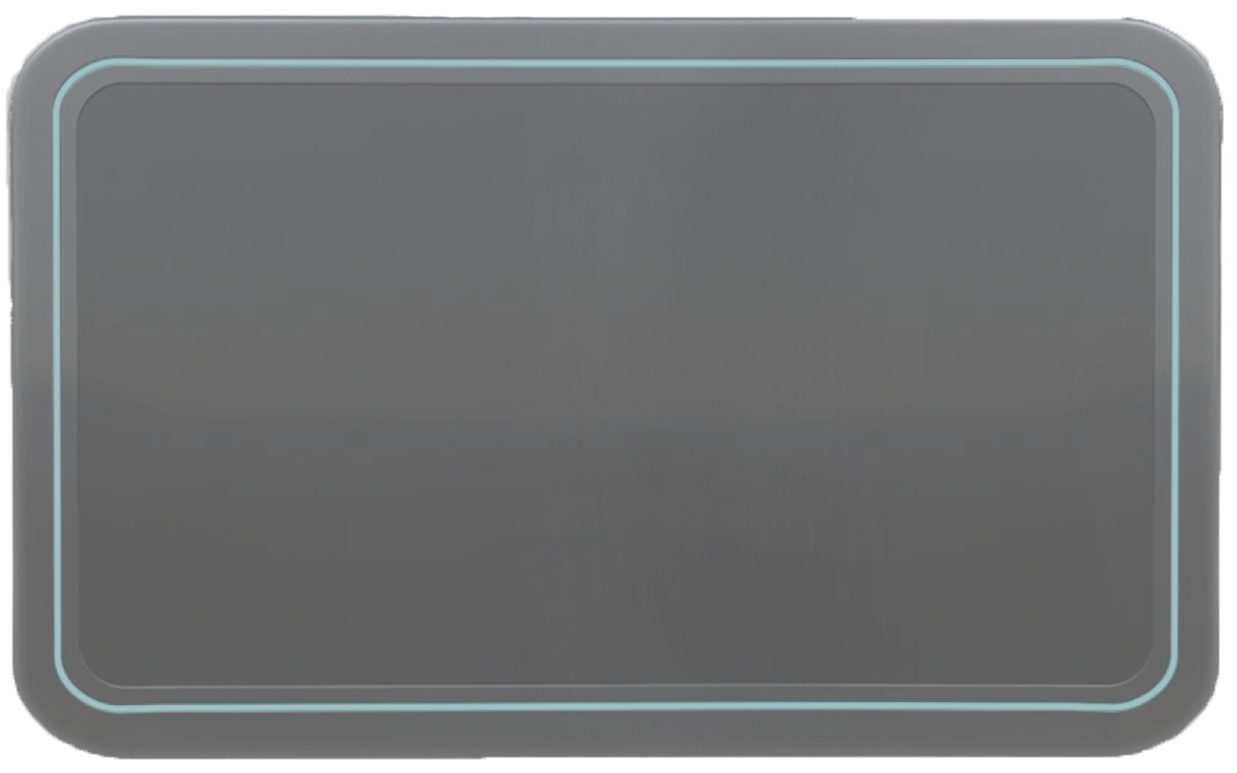
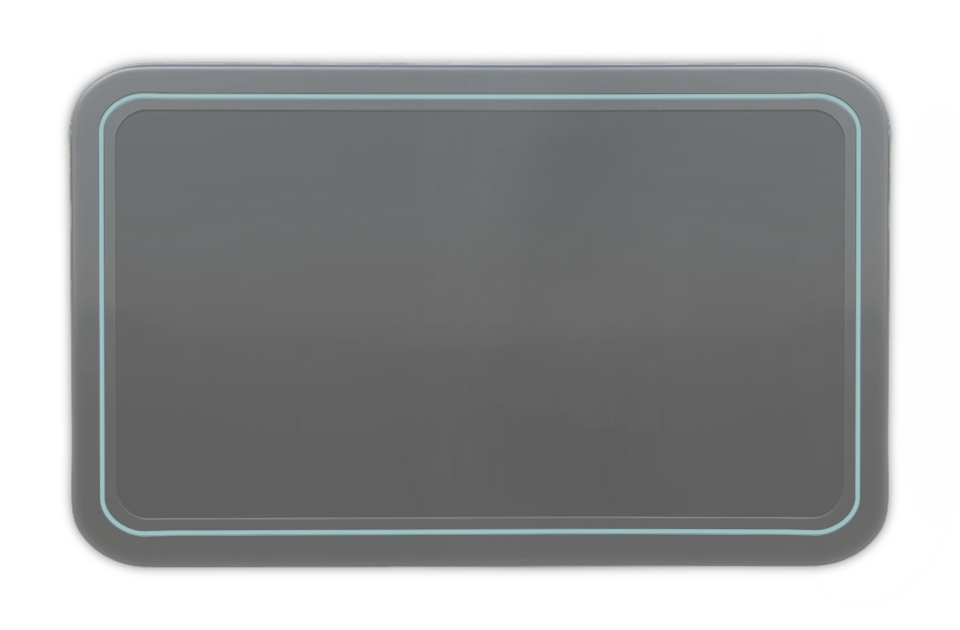
fixer bug

Changed region(s): [[0.0, 0.0, 1.0, 0.9952]]

diff --git a/style.css b/style.css
@@ -76,9 +76,9 @@ color:#B1E7F0;
     padding-left: 55px;
     padding-right: 55px;
     background-image: url('image/pda6.png');
-    background-size: 800px ;
+    background-size: 920px ;
     background-repeat: no-repeat ;
-    background-position: 0px -10px 
+    background-position: -60px -60px 
 
    
 }
@@ -132,14 +132,14 @@ a:hover {
 
 #form {
 height: 1000px;
-width: 100px;
-    padding-left: 600px;
+width: 1000px;
+    padding-left: 230px;
     padding-right: 500px;
     padding-bottom: 0px;
     background-image: url('image/PDA5.png');
     background-size: 1450px;
     background-repeat: no-repeat ;
-    background-position: 100px 0px;
+    background-position: -350px 15px;
 
 }
 
@@ -255,13 +255,13 @@ footer {
     margin-left:auto ;
     margin-right:auto;
     padding-bottom: 100px;
-    width: 700px; 
+    width: 800px; 
     height: 500px;
     padding: 100px;
     background-image: url('image/pda6.png');
-    background-size: 700px;
+    background-size: 900px;
     background-repeat: no-repeat;
-    background-position: center 00px
+    background-position: center -50px
 
 
 }
@@ -274,10 +274,10 @@ footer {
     width: 100px; 
     height: 300px;
     padding: 100px;
-    background-image: url('image/Pda\ 4\ .png');
-    background-size: 700px;
+    background-image: url('image/pda6.png');
+    background-size: 900px;
     background-repeat: no-repeat;
-    background-position: center 00px
+    background-position: center -50px
 
 
 }
@@ -290,9 +290,9 @@ footer {
     height: 300px;
     padding: 100px;
     background-image: url('image/pda6.png');
-    background-size: 800px;
+    background-size: 900px;
     background-repeat: no-repeat;
-    background-position: center 00px
+    background-position: center -50px
 
 
 }
@@ -304,13 +304,65 @@ footer {
     width: 100px; 
     height: 300px;
     padding: 100px;
-    background-image: url('image/Pda\ 4\ .png');
-    background-size: 700px;
+    background-image: url('image/pda6.png');
+    background-size: 900px;
     background-repeat: no-repeat;
-    background-position: center 00px
+    background-position: center -50px
 
 
 }
+
+#références {
+
+    margin-left:auto ;
+    margin-right: auto;
+    padding-bottom: 0px;
+    width: 1257px; 
+    height: 300px;
+    padding: 100px;
+    background-image: url('image/Pda3.png');
+    background-size: 700px;
+    background-repeat: no-repeat;
+    background-position: center -70px
+
+}
+
+#titrepropos {
+font-size: xx-large;
+font-weight: bold;
+}
+
+#peeper {
+width: 200px;
+size: 1000px 1000px;
+transform: rotate(15deg);
+padding-bottom: 500px;
+}
+
+#bladder {
+    width: 200px;
+padding-bottom: 250px;
+padding-right: 10px;
+transform: rotate(-30deg);
+}
+
+#alguetitre {
+font-size: x-large;
+font-weight: bold;
+
+}
+
+#alguesous {
+
+font-size: small;
+
+
+}
+
+
+
+
+
 
 
 

diff --git a/libre.html b/libre.html
@@ -15,11 +15,11 @@
 </td>
 
 <td>
-    <a href="main.html"> Page d'accueil</a>
+    <a href="index.html"> Page d'accueil</a>
 </td>
 
 <td>
- <a href="a propos.html">À propos</a>
+ <a href="propos.html">À propos</a>
 </td>
 
 <td>
@@ -42,7 +42,7 @@
 <table>
 <tr>
 <!-- section planet -->
-<td id="section11"><iframe width="500" height="500" src="https://www.youtube.com/embed/LvRiLyrHRsA?autoplay=1&mute=1" 
+<td id="section11"><iframe width="900" height="500" src="https://www.youtube.com/embed/LvRiLyrHRsA?autoplay=1&mute=1" 
     title="Subnautica - Safe Shallows Ambiance (underwater, fish, ocean sounds)" 
     frameborder="0" allow="accelerometer; autoplay; clipboard-write; encrypted-media; gyroscope; picture-in-picture; web-share" 
     referrerpolicy="strict-origin-when-cross-origin" 
@@ -58,7 +58,7 @@
 </td>
 
  <td id="section22">
-      <iframe width="700" height="500" src="https://www.youtube.com/embed/Fy4XV5UK56c?autoplay=1&mute=1" 
+      <iframe width="900" height="500" src="https://www.youtube.com/embed/Fy4XV5UK56c?autoplay=1&mute=1" 
       title="Subnautica - Kelp Forest Day Ambiance (sea creatures, soft music, bubbles, ocean)" 
       frameborder="0" 
       allow="accelerometer; autoplay; clipboard-write; encrypted-media; gyroscope; picture-in-picture; web-share" 
@@ -70,7 +70,7 @@
 
 <!-- section foret champignon -->
 <tr>
-    <td id="section31"><iframe width="500" height="500" src="https://www.youtube.com/embed/O61E1AZhFrw?autoplay=1&mute=1" 
+    <td id="section31"><iframe width="900" height="500" src="https://www.youtube.com/embed/O61E1AZhFrw?autoplay=1&mute=1" 
         title="Subnautica - Mushroom Forest Ambiance (sea creatures, growling, bubbles, soft music)" 
         frameborder="0" 
         allow="accelerometer; autoplay; clipboard-write; encrypted-media; gyroscope; picture-in-picture; web-share" 

diff --git a/propos.html b/propos.html
@@ -15,11 +15,11 @@
 </td>
 
 <td>
-    <a href="main.html"> Page d'accueil</a>
+    <a href="index.html"> Page d'accueil</a>
 </td>
 
 <td>
- <a href="a propos.html">À propos</a>
+ <a href="propos.html">À propos</a>
 </td>
 
 <td>
@@ -34,9 +34,9 @@
 </table>
 
 <!-- info site -->
-  <h2 id="test"></h2> 
+ > 
  <br>
-<p id="info">À propos du site : <br> <br> <br> Nous avons créé un site de destination de voyage pour la planète fictive 4546B, qui est la planète où se passe la série de jeux subnautica. Le site a été créé de manière 
+<p id="info"> <span id="titrepropos"> À propos du site :</span> <br> <br> <br> Nous avons créé un site de destination de voyage pour la planète fictive 4546B, qui est la planète où se passe la série de jeux subnautica. Le site a été créé de manière 
     qu’il ressemble à un site existent dans l’univers du jeu en se basent sur la compagnie fictive Alterra présente dans les jeux pour imaginer qu’il offre un service de vacances sur 4546B.
 </p>
 
@@ -73,9 +73,14 @@
 </table>
 <!-- références -->
 <table id="références">
-<h2>Références</h2>
-<p>#1 : https://subnautica.fandom.com/wiki/Subnautica_Wiki <br>
-    #2 : https://voyagesarabais.com/</p>
+    <tr>
+<td>
+        <h2>Références</h2>
+        <p>#1 : https://subnautica.fandom.com/wiki/Subnautica_Wiki <br>
+            #2 : https://voyagesarabais.com/</p>
+        </td>
+    </tr>
+
 </table>
 <br><br><br>
 

diff --git a/contact.html b/contact.html
@@ -17,11 +17,11 @@
 </td>
 
 <td>
-    <a href="main.html"> Page d'accueil</a>
+    <a href="index.html"> Page d'accueil</a>
 </td>
 
 <td>
- <a href="a propos.html">À propos</a>
+ <a href="propos.html">À propos</a>
 </td>
 
 <td>
@@ -86,6 +86,10 @@
 </td>
 </form>
 <br>
+<td>
+<img id="peeper" src="image/peeper.png" alt="peeper">
+<img id="bladder" src="image/bladerfish2.png" alt="bladderfish">
+</td>
 </tr>
 </table>
 
